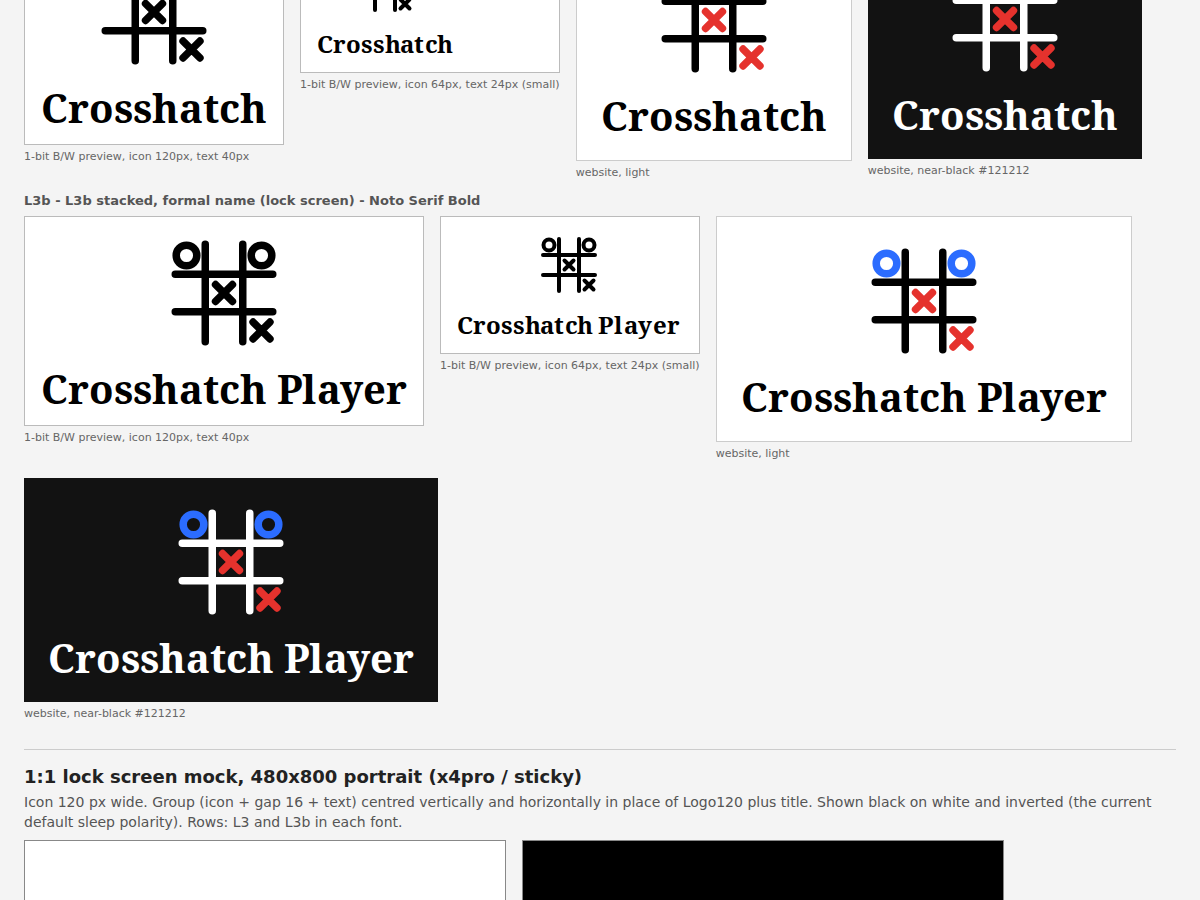
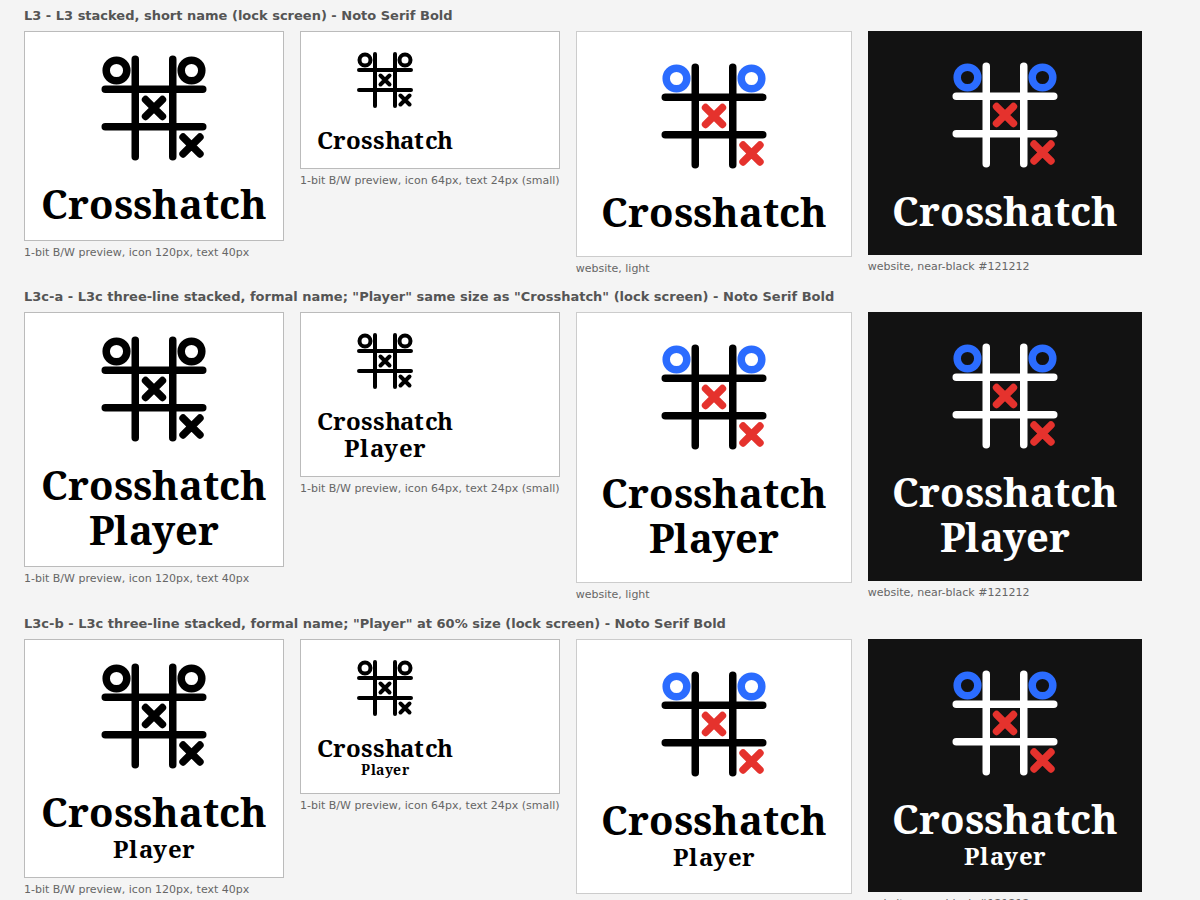
docs: replace one-line stacked lockup with three-line variant
Claude-Session: https://claude.ai/code/session_0126A7paQJWWrjuxfQ387AEm

diff --git a/_bmad-output/planning-artifacts/ux-designs/ux-crosshatch-player-2026-10-03/.working/wordmark-variants-1.html b/_bmad-output/planning-artifacts/ux-designs/ux-crosshatch-player-2026-10-03/.working/wordmark-variants-1.html
@@ -1,5 +1,5 @@
[4 lines of base64/hex data omitted]
 
 body{font:14px/1.4 system-ui,sans-serif;margin:0;padding:24px;width:1152px;background:#f4f4f4;color:#222}
 h1{font-size:22px;margin:0 0 4px}h2{font-size:18px;margin:28px 0 4px;border-top:1px solid #ccc;padding-top:14px}h3{font-size:13px;margin:12px 0 6px;color:#555}
@@ -15,4 +15,4 @@ h1{font-size:22px;margin:0 0 4px}h2{font-size:18px;margin:28px 0 4px;border-top:
 .mock .c{position:absolute;left:0;right:0;display:flex;justify-content:center}
 .mock.inv{background:#000}
 .spec{font:12px/1.5 ui-monospace,monospace;background:#fff;border:1px solid #ccc;padding:8px 12px;margin:8px 0}
-</style></head><body><svg width="0" height="0" style="position:absolute"><defs><symbol id="A2" viewBox="0 0 256 256"><g fill="none" stroke-width="16" stroke-linecap="round" stroke-linejoin="round"><g class="g" style="stroke:var(--cg)"><path d="M88 24V232M168 24V232M24 88H232M24 168H232"/></g><circle class="o" style="stroke:var(--co)" cx="48" cy="48" r="22"/><path class="x" style="stroke:var(--cx)" d="M110 110L146 146M146 110L110 146"/><path class="x" style="stroke:var(--cx)" d="M190 190L226 226M226 190L190 226"/><circle class="o" style="stroke:var(--co)" cx="208" cy="48" r="22"/></g></symbol></defs></svg><h1>Wordmark lockups on mark A2</h1><p class="note">3 lockups (+L3b) x 2 firmware typefaces. Text capitalised exactly as given. Mark A2 unchanged. Fonts: NotoSans-Bold.ttf and NotoSerif-Bold.ttf from lib/EpdFont/builtinFonts/source, subset and embedded.</p><div class="spec">Screens: x4pro and sticky are both 800x480 panels (FreeInkDisplay DISPLAY_WIDTH 800 x DISPLAY_HEIGHT 480; sticky: 3.97" 800x480 SSD1677 per platformio.ini). SleepActivity sets Portrait, so the logical canvas is 480 x 800. Current boot/sleep layout: Logo120 at ((w-120)/2, (h-120)/2); title text at h/2+70 (UI_10 bold), "Sleeping" at h/2+95 (small). Default sleep screen is inverted to dark unless Light is chosen.</div><h2>Noto Sans Bold</h2><h3>L1 - L1 horizontal, formal name (website) - Noto Sans Bold</h3><div class="row"><div class="cell"><div class="bit" id="r-L1-sans-dev"><div class="lk h" style="gap:13px;color:#000;font-family:'NS';font-size:32px"><svg class="mk" width="48" height="48" viewBox="0 0 256 256" style="--cg:#000;--cx:#000;--co:#000"><use href="#A2"/></svg><span class="t">Crosshatch Player</span></div></div><div class="cap">1-bit B/W preview, icon 48px, text 32px</div></div><div class="cell"><div class="bit" id="r-L1-sans-small"><div class="lk h" style="gap:9px;color:#000;font-family:'NS';font-size:22px"><svg class="mk" width="32" height="32" viewBox="0 0 256 256" style="--cg:#000;--cx:#000;--co:#000"><use href="#A2"/></svg><span class="t">Crosshatch Player</span></div></div><div class="cap">1-bit B/W preview, icon 32px, text 22px (small)</div></div><div class="cell"><div class="tile light"><div class="lk h" style="gap:20px;color:#000;font-family:'NS';font-size:48px"><svg class="mk" width="72" height="72" viewBox="0 0 256 256" style="--cg:#000;--cx:#E5322D;--co:#2B6CFF"><use href="#A2"/></svg><span class="t">Crosshatch Player</span></div></div><div class="cap">website, light</div></div><div class="cell"><div class="tile dark"><div class="lk h" style="gap:20px;color:#fff;font-family:'NS';font-size:48px"><svg class="mk" width="72" height="72" viewBox="0 0 256 256" style="--cg:#fff;--cx:#E5322D;--co:#2B6CFF"><use href="#A2"/></svg><span class="t">Crosshatch Player</span></div></div><div class="cap">website, near-black #121212</div></div></div><h3>L2 - L2 horizontal, short name - Noto Sans Bold</h3><div class="row"><div class="cell"><div class="bit" id="r-L2-sans-dev"><div class="lk h" style="gap:13px;color:#000;font-family:'NS';font-size:32px"><svg class="mk" width="48" height="48" viewBox="0 0 256 256" style="--cg:#000;--cx:#000;--co:#000"><use href="#A2"/></svg><span class="t">Crosshatch</span></div></div><div class="cap">1-bit B/W preview, icon 48px, text 32px</div></div><div class="cell"><div class="bit" id="r-L2-sans-small"><div class="lk h" style="gap:9px;color:#000;font-family:'NS';font-size:22px"><svg class="mk" width="32" height="32" viewBox="0 0 256 256" style="--cg:#000;--cx:#000;--co:#000"><use href="#A2"/></svg><span class="t">Crosshatch</span></div></div><div class="cap">1-bit B/W preview, icon 32px, text 22px (small)</div></div><div class="cell"><div class="tile light"><div class="lk h" style="gap:20px;color:#000;font-family:'NS';font-size:48px"><svg class="mk" width="72" height="72" viewBox="0 0 256 256" style="--cg:#000;--cx:#E5322D;--co:#2B6CFF"><use href="#A2"/></svg><span class="t">Crosshatch</span></div></div><div class="cap">website, light</div></div><div class="cell"><div class="tile dark"><div class="lk h" style="gap:20px;color:#fff;font-family:'NS';font-size:48px"><svg class="mk" width="72" height="72" viewBox="0 0 256 256" style="--cg:#fff;--cx:#E5322D;--co:#2B6CFF"><use href="#A2"/></svg><span class="t">Crosshatch</span></div></div><div class="cap">website, near-black #121212</div></div></div><h3>L3 - L3 stacked, short name (lock screen) - Noto Sans Bold</h3><div class="row"><div class="cell"><div class="bit" id="r-L3-sans-dev"><div class="lk v" style="gap:16px;color:#000;font-family:'NS';font-size:40px"><svg class="mk" width="120" height="120" viewBox="0 0 256 256" style="--cg:#000;--cx:#000;--co:#000"><use href="#A2"/></svg><span class="t">Crosshatch</span></div></div><div class="cap">1-bit B/W preview, icon 120px, text 40px</div></div><div class="cell"><div class="bit" id="r-L3-sans-small"><div class="lk v" style="gap:16px;color:#000;font-family:'NS';font-size:24px"><svg class="mk" width="64" height="64" viewBox="0 0 256 256" style="--cg:#000;--cx:#000;--co:#000"><use href="#A2"/></svg><span class="t">Crosshatch</span></div></div><div class="cap">1-bit B/W preview, icon 64px, text 24px (small)</div></div><div class="cell"><div class="tile light"><div class="lk v" style="gap:16px;color:#000;font-family:'NS';font-size:40px"><svg class="mk" width="120" height="120" viewBox="0 0 256 256" style="--cg:#000;--cx:#E5322D;--co:#2B6CFF"><use href="#A2"/></svg><span class="t">Crosshatch</span></div></div><div class="cap">website, light</div></div><div class="cell"><div class="tile dark"><div class="lk v" style="gap:16px;color:#fff;font-family:'NS';font-size:40px"><svg class="mk" width="120" height="120" viewBox="0 0 256 256" style="--cg:#fff;--cx:#E5322D;--co:#2B6CFF"><use href="#A2"/></svg><span class="t">Crosshatch</span></div></div><div class="cap">website, near-black #121212</div></div></div><h3>L3b - L3b stacked, formal name (lock screen) - Noto Sans Bold</h3><div class="row"><div class="cell"><div class="bit" id="r-L3b-sans-dev"><div class="lk v" style="gap:16px;color:#000;font-family:'NS';font-size:40px"><svg class="mk" width="120" height="120" viewBox="0 0 256 256" style="--cg:#000;--cx:#000;--co:#000"><use href="#A2"/></svg><span class="t">Crosshatch Player</span></div></div><div class="cap">1-bit B/W preview, icon 120px, text 40px</div></div><div class="cell"><div class="bit" id="r-L3b-sans-small"><div class="lk v" style="gap:16px;color:#000;font-family:'NS';font-size:24px"><svg class="mk" width="64" height="64" viewBox="0 0 256 256" style="--cg:#000;--cx:#000;--co:#000"><use href="#A2"/></svg><span class="t">Crosshatch Player</span></div></div><div class="cap">1-bit B/W preview, icon 64px, text 24px (small)</div></div><div class="cell"><div class="tile light"><div class="lk v" style="gap:16px;color:#000;font-family:'NS';font-size:40px"><svg class="mk" width="120" height="120" viewBox="0 0 256 256" style="--cg:#000;--cx:#E5322D;--co:#2B6CFF"><use href="#A2"/></svg><span class="t">Crosshatch Player</span></div></div><div class="cap">website, light</div></div><div class="cell"><div class="tile dark"><div class="lk v" style="gap:16px;color:#fff;font-family:'NS';font-size:40px"><svg class="mk" width="120" height="120" viewBox="0 0 256 256" style="--cg:#fff;--cx:#E5322D;--co:#2B6CFF"><use href="#A2"/></svg><span class="t">Crosshatch Player</span></div></div><div class="cap">website, near-black #121212</div></div></div><h2>Noto Serif Bold</h2><h3>L1 - L1 horizontal, formal name (website) - Noto Serif Bold</h3><div class="row"><div class="cell"><div class="bit" id="r-L1-serif-dev"><div class="lk h" style="gap:13px;color:#000;font-family:'NSf';font-size:32px"><svg class="mk" width="48" height="48" viewBox="0 0 256 256" style="--cg:#000;--cx:#000;--co:#000"><use href="#A2"/></svg><span class="t">Crosshatch Player</span></div></div><div class="cap">1-bit B/W preview, icon 48px, text 32px</div></div><div class="cell"><div class="bit" id="r-L1-serif-small"><div class="lk h" style="gap:9px;color:#000;font-family:'NSf';font-size:22px"><svg class="mk" width="32" height="32" viewBox="0 0 256 256" style="--cg:#000;--cx:#000;--co:#000"><use href="#A2"/></svg><span class="t">Crosshatch Player</span></div></div><div class="cap">1-bit B/W preview, icon 32px, text 22px (small)</div></div><div class="cell"><div class="tile light"><div class="lk h" style="gap:20px;color:#000;font-family:'NSf';font-size:48px"><svg class="mk" width="72" height="72" viewBox="0 0 256 256" style="--cg:#000;--cx:#E5322D;--co:#2B6CFF"><use href="#A2"/></svg><span class="t">Crosshatch Player</span></div></div><div class="cap">website, light</div></div><div class="cell"><div class="tile dark"><div class="lk h" style="gap:20px;color:#fff;font-family:'NSf';font-size:48px"><svg class="mk" width="72" height="72" viewBox="0 0 256 256" style="--cg:#fff;--cx:#E5322D;--co:#2B6CFF"><use href="#A2"/></svg><span class="t">Crosshatch Player</span></div></div><div class="cap">website, near-black #121212</div></div></div><h3>L2 - L2 horizontal, short name - Noto Serif Bold</h3><div class="row"><div class="cell"><div class="bit" id="r-L2-serif-dev"><div class="lk h" style="gap:13px;color:#000;font-family:'NSf';font-size:32px"><svg class="mk" width="48" height="48" viewBox="0 0 256 256" style="--cg:#000;--cx:#000;--co:#000"><use href="#A2"/></svg><span class="t">Crosshatch</span></div></div><div class="cap">1-bit B/W preview, icon 48px, text 32px</div></div><div class="cell"><div class="bit" id="r-L2-serif-small"><div class="lk h" style="gap:9px;color:#000;font-family:'NSf';font-size:22px"><svg class="mk" width="32" height="32" viewBox="0 0 256 256" style="--cg:#000;--cx:#000;--co:#000"><use href="#A2"/></svg><span class="t">Crosshatch</span></div></div><div class="cap">1-bit B/W preview, icon 32px, text 22px (small)</div></div><div class="cell"><div class="tile light"><div class="lk h" style="gap:20px;color:#000;font-family:'NSf';font-size:48px"><svg class="mk" width="72" height="72" viewBox="0 0 256 256" style="--cg:#000;--cx:#E5322D;--co:#2B6CFF"><use href="#A2"/></svg><span class="t">Crosshatch</span></div></div><div class="cap">website, light</div></div><div class="cell"><div class="tile dark"><div class="lk h" style="gap:20px;color:#fff;font-family:'NSf';font-size:48px"><svg class="mk" width="72" height="72" viewBox="0 0 256 256" style="--cg:#fff;--cx:#E5322D;--co:#2B6CFF"><use href="#A2"/></svg><span class="t">Crosshatch</span></div></div><div class="cap">website, near-black #121212</div></div></div><h3>L3 - L3 stacked, short name (lock screen) - Noto Serif Bold</h3><div class="row"><div class="cell"><div class="bit" id="r-L3-serif-dev"><div class="lk v" style="gap:16px;color:#000;font-family:'NSf';font-size:40px"><svg class="mk" width="120" height="120" viewBox="0 0 256 256" style="--cg:#000;--cx:#000;--co:#000"><use href="#A2"/></svg><span class="t">Crosshatch</span></div></div><div class="cap">1-bit B/W preview, icon 120px, text 40px</div></div><div class="cell"><div class="bit" id="r-L3-serif-small"><div class="lk v" style="gap:16px;color:#000;font-family:'NSf';font-size:24px"><svg class="mk" width="64" height="64" viewBox="0 0 256 256" style="--cg:#000;--cx:#000;--co:#000"><use href="#A2"/></svg><span class="t">Crosshatch</span></div></div><div class="cap">1-bit B/W preview, icon 64px, text 24px (small)</div></div><div class="cell"><div class="tile light"><div class="lk v" style="gap:16px;color:#000;font-family:'NSf';font-size:40px"><svg class="mk" width="120" height="120" viewBox="0 0 256 256" style="--cg:#000;--cx:#E5322D;--co:#2B6CFF"><use href="#A2"/></svg><span class="t">Crosshatch</span></div></div><div class="cap">website, light</div></div><div class="cell"><div class="tile dark"><div class="lk v" style="gap:16px;color:#fff;font-family:'NSf';font-size:40px"><svg class="mk" width="120" height="120" viewBox="0 0 256 256" style="--cg:#fff;--cx:#E5322D;--co:#2B6CFF"><use href="#A2"/></svg><span class="t">Crosshatch</span></div></div><div class="cap">website, near-black #121212</div></div></div><h3>L3b - L3b stacked, formal name (lock screen) - Noto Serif Bold</h3><div class="row"><div class="cell"><div class="bit" id="r-L3b-serif-dev"><div class="lk v" style="gap:16px;color:#000;font-family:'NSf';font-size:40px"><svg class="mk" width="120" height="120" viewBox="0 0 256 256" style="--cg:#000;--cx:#000;--co:#000"><use href="#A2"/></svg><span class="t">Crosshatch Player</span></div></div><div class="cap">1-bit B/W preview, icon 120px, text 40px</div></div><div class="cell"><div class="bit" id="r-L3b-serif-small"><div class="lk v" style="gap:16px;color:#000;font-family:'NSf';font-size:24px"><svg class="mk" width="64" height="64" viewBox="0 0 256 256" style="--cg:#000;--cx:#000;--co:#000"><use href="#A2"/></svg><span class="t">Crosshatch Player</span></div></div><div class="cap">1-bit B/W preview, icon 64px, text 24px (small)</div></div><div class="cell"><div class="tile light"><div class="lk v" style="gap:16px;color:#000;font-family:'NSf';font-size:40px"><svg class="mk" width="120" height="120" viewBox="0 0 256 256" style="--cg:#000;--cx:#E5322D;--co:#2B6CFF"><use href="#A2"/></svg><span class="t">Crosshatch Player</span></div></div><div class="cap">website, light</div></div><div class="cell"><div class="tile dark"><div class="lk v" style="gap:16px;color:#fff;font-family:'NSf';font-size:40px"><svg class="mk" width="120" height="120" viewBox="0 0 256 256" style="--cg:#fff;--cx:#E5322D;--co:#2B6CFF"><use href="#A2"/></svg><span class="t">Crosshatch Player</span></div></div><div class="cap">website, near-black #121212</div></div></div><h2>1:1 lock screen mock, 480x800 portrait (x4pro / sticky)</h2><p class="note">Icon 120 px wide. Group (icon + gap 16 + text) centred vertically and horizontally in place of Logo120 plus title. Shown black on white and inverted (the current default sleep polarity). Rows: L3 and L3b in each font.</p><div class="row"><div class="cell"><div class="mock" id="mock-L3-sans-pos" style="--fg:#000"><div class="c" style="top:0;bottom:0;align-items:center"><div class="lk v" style="gap:16px;color:#000;font-family:'NS';font-size:40px"><svg class="mk" width="120" height="120" viewBox="0 0 256 256" style="--cg:#000;--cx:#000;--co:#000"><use href="#A2"/></svg><span class="t">Crosshatch</span></div></div></div><div class="cap">L3 Noto Sans Bold</div></div><div class="cell"><div class="mock inv" id="mock-L3-sans-inv" style="--fg:#fff"><div class="c" style="top:0;bottom:0;align-items:center"><div class="lk v" style="gap:16px;color:#fff;font-family:'NS';font-size:40px"><svg class="mk" width="120" height="120" viewBox="0 0 256 256" style="--cg:#fff;--cx:#fff;--co:#fff"><use href="#A2"/></svg><span class="t">Crosshatch</span></div></div></div><div class="cap">L3 Noto Sans Bold inverted</div></div><div class="cell"><div class="mock" id="mock-L3-serif-pos" style="--fg:#000"><div class="c" style="top:0;bottom:0;align-items:center"><div class="lk v" style="gap:16px;color:#000;font-family:'NSf';font-size:40px"><svg class="mk" width="120" height="120" viewBox="0 0 256 256" style="--cg:#000;--cx:#000;--co:#000"><use href="#A2"/></svg><span class="t">Crosshatch</span></div></div></div><div class="cap">L3 Noto Serif Bold</div></div><div class="cell"><div class="mock inv" id="mock-L3-serif-inv" style="--fg:#fff"><div class="c" style="top:0;bottom:0;align-items:center"><div class="lk v" style="gap:16px;color:#fff;font-family:'NSf';font-size:40px"><svg class="mk" width="120" height="120" viewBox="0 0 256 256" style="--cg:#fff;--cx:#fff;--co:#fff"><use href="#A2"/></svg><span class="t">Crosshatch</span></div></div></div><div class="cap">L3 Noto Serif Bold inverted</div></div><div class="cell"><div class="mock" id="mock-L3b-sans-pos" style="--fg:#000"><div class="c" style="top:0;bottom:0;align-items:center"><div class="lk v" style="gap:16px;color:#000;font-family:'NS';font-size:40px"><svg class="mk" width="120" height="120" viewBox="0 0 256 256" style="--cg:#000;--cx:#000;--co:#000"><use href="#A2"/></svg><span class="t">Crosshatch Player</span></div></div></div><div class="cap">L3b Noto Sans Bold</div></div><div class="cell"><div class="mock inv" id="mock-L3b-sans-inv" style="--fg:#fff"><div class="c" style="top:0;bottom:0;align-items:center"><div class="lk v" style="gap:16px;color:#fff;font-family:'NS';font-size:40px"><svg class="mk" width="120" height="120" viewBox="0 0 256 256" style="--cg:#fff;--cx:#fff;--co:#fff"><use href="#A2"/></svg><span class="t">Crosshatch Player</span></div></div></div><div class="cap">L3b Noto Sans Bold inverted</div></div><div class="cell"><div class="mock" id="mock-L3b-serif-pos" style="--fg:#000"><div class="c" style="top:0;bottom:0;align-items:center"><div class="lk v" style="gap:16px;color:#000;font-family:'NSf';font-size:40px"><svg class="mk" width="120" height="120" viewBox="0 0 256 256" style="--cg:#000;--cx:#000;--co:#000"><use href="#A2"/></svg><span class="t">Crosshatch Player</span></div></div></div><div class="cap">L3b Noto Serif Bold</div></div><div class="cell"><div class="mock inv" id="mock-L3b-serif-inv" style="--fg:#fff"><div class="c" style="top:0;bottom:0;align-items:center"><div class="lk v" style="gap:16px;color:#fff;font-family:'NSf';font-size:40px"><svg class="mk" width="120" height="120" viewBox="0 0 256 256" style="--cg:#fff;--cx:#fff;--co:#fff"><use href="#A2"/></svg><span class="t">Crosshatch Player</span></div></div></div><div class="cap">L3b Noto Serif Bold inverted</div></div></div></body></html>
+</style></head><body><svg width="0" height="0" style="position:absolute"><defs><symbol id="A2" viewBox="0 0 256 256"><g fill="none" stroke-width="16" stroke-linecap="round" stroke-linejoin="round"><g class="g" style="stroke:var(--cg)"><path d="M88 24V232M168 24V232M24 88H232M24 168H232"/></g><circle class="o" style="stroke:var(--co)" cx="48" cy="48" r="22"/><path class="x" style="stroke:var(--cx)" d="M110 110L146 146M146 110L110 146"/><path class="x" style="stroke:var(--cx)" d="M190 190L226 226M226 190L190 226"/><circle class="o" style="stroke:var(--co)" cx="208" cy="48" r="22"/></g></symbol></defs></svg><h1>Wordmark lockups on mark A2</h1><p class="note">3 lockups (L3 stacked has a three-line variant L3c in two sizings) x 2 firmware typefaces. Text capitalised exactly as given. Mark A2 unchanged. Fonts: NotoSans-Bold.ttf and NotoSerif-Bold.ttf from lib/EpdFont/builtinFonts/source, subset and embedded.</p><div class="spec">Screens: x4pro and sticky are both 800x480 panels (FreeInkDisplay DISPLAY_WIDTH 800 x DISPLAY_HEIGHT 480; sticky: 3.97" 800x480 SSD1677 per platformio.ini). SleepActivity sets Portrait, so the logical canvas is 480 x 800. Current boot/sleep layout: Logo120 at ((w-120)/2, (h-120)/2); title text at h/2+70 (UI_10 bold), "Sleeping" at h/2+95 (small). Default sleep screen is inverted to dark unless Light is chosen.</div><h2>Noto Sans Bold</h2><h3>L1 - L1 horizontal, formal name (website) - Noto Sans Bold</h3><div class="row"><div class="cell"><div class="bit" id="r-L1-sans-dev"><div class="lk h" style="gap:13px;color:#000;font-family:'NS';font-size:32px"><svg class="mk" width="48" height="48" viewBox="0 0 256 256" style="--cg:#000;--cx:#000;--co:#000"><use href="#A2"/></svg><span class="t">Crosshatch Player</span></div></div><div class="cap">1-bit B/W preview, icon 48px, text 32px</div></div><div class="cell"><div class="bit" id="r-L1-sans-small"><div class="lk h" style="gap:9px;color:#000;font-family:'NS';font-size:22px"><svg class="mk" width="32" height="32" viewBox="0 0 256 256" style="--cg:#000;--cx:#000;--co:#000"><use href="#A2"/></svg><span class="t">Crosshatch Player</span></div></div><div class="cap">1-bit B/W preview, icon 32px, text 22px (small)</div></div><div class="cell"><div class="tile light"><div class="lk h" style="gap:20px;color:#000;font-family:'NS';font-size:48px"><svg class="mk" width="72" height="72" viewBox="0 0 256 256" style="--cg:#000;--cx:#E5322D;--co:#2B6CFF"><use href="#A2"/></svg><span class="t">Crosshatch Player</span></div></div><div class="cap">website, light</div></div><div class="cell"><div class="tile dark"><div class="lk h" style="gap:20px;color:#fff;font-family:'NS';font-size:48px"><svg class="mk" width="72" height="72" viewBox="0 0 256 256" style="--cg:#fff;--cx:#E5322D;--co:#2B6CFF"><use href="#A2"/></svg><span class="t">Crosshatch Player</span></div></div><div class="cap">website, near-black #121212</div></div></div><h3>L2 - L2 horizontal, short name - Noto Sans Bold</h3><div class="row"><div class="cell"><div class="bit" id="r-L2-sans-dev"><div class="lk h" style="gap:13px;color:#000;font-family:'NS';font-size:32px"><svg class="mk" width="48" height="48" viewBox="0 0 256 256" style="--cg:#000;--cx:#000;--co:#000"><use href="#A2"/></svg><span class="t">Crosshatch</span></div></div><div class="cap">1-bit B/W preview, icon 48px, text 32px</div></div><div class="cell"><div class="bit" id="r-L2-sans-small"><div class="lk h" style="gap:9px;color:#000;font-family:'NS';font-size:22px"><svg class="mk" width="32" height="32" viewBox="0 0 256 256" style="--cg:#000;--cx:#000;--co:#000"><use href="#A2"/></svg><span class="t">Crosshatch</span></div></div><div class="cap">1-bit B/W preview, icon 32px, text 22px (small)</div></div><div class="cell"><div class="tile light"><div class="lk h" style="gap:20px;color:#000;font-family:'NS';font-size:48px"><svg class="mk" width="72" height="72" viewBox="0 0 256 256" style="--cg:#000;--cx:#E5322D;--co:#2B6CFF"><use href="#A2"/></svg><span class="t">Crosshatch</span></div></div><div class="cap">website, light</div></div><div class="cell"><div class="tile dark"><div class="lk h" style="gap:20px;color:#fff;font-family:'NS';font-size:48px"><svg class="mk" width="72" height="72" viewBox="0 0 256 256" style="--cg:#fff;--cx:#E5322D;--co:#2B6CFF"><use href="#A2"/></svg><span class="t">Crosshatch</span></div></div><div class="cap">website, near-black #121212</div></div></div><h3>L3 - L3 stacked, short name (lock screen) - Noto Sans Bold</h3><div class="row"><div class="cell"><div class="bit" id="r-L3-sans-dev"><div class="lk v" style="gap:16px;color:#000;font-family:'NS';font-size:40px"><svg class="mk" width="120" height="120" viewBox="0 0 256 256" style="--cg:#000;--cx:#000;--co:#000"><use href="#A2"/></svg><span class="t">Crosshatch</span></div></div><div class="cap">1-bit B/W preview, icon 120px, text 40px</div></div><div class="cell"><div class="bit" id="r-L3-sans-small"><div class="lk v" style="gap:16px;color:#000;font-family:'NS';font-size:24px"><svg class="mk" width="64" height="64" viewBox="0 0 256 256" style="--cg:#000;--cx:#000;--co:#000"><use href="#A2"/></svg><span class="t">Crosshatch</span></div></div><div class="cap">1-bit B/W preview, icon 64px, text 24px (small)</div></div><div class="cell"><div class="tile light"><div class="lk v" style="gap:16px;color:#000;font-family:'NS';font-size:40px"><svg class="mk" width="120" height="120" viewBox="0 0 256 256" style="--cg:#000;--cx:#E5322D;--co:#2B6CFF"><use href="#A2"/></svg><span class="t">Crosshatch</span></div></div><div class="cap">website, light</div></div><div class="cell"><div class="tile dark"><div class="lk v" style="gap:16px;color:#fff;font-family:'NS';font-size:40px"><svg class="mk" width="120" height="120" viewBox="0 0 256 256" style="--cg:#fff;--cx:#E5322D;--co:#2B6CFF"><use href="#A2"/></svg><span class="t">Crosshatch</span></div></div><div class="cap">website, near-black #121212</div></div></div><h3>L3c-a - L3c three-line stacked, formal name; "Player" same size as "Crosshatch" (lock screen) - Noto Sans Bold</h3><div class="row"><div class="cell"><div class="bit" id="r-L3c-a-sans-dev"><div class="lk v" style="gap:16px;color:#000;font-family:'NS';font-size:40px"><svg class="mk" width="120" height="120" viewBox="0 0 256 256" style="--cg:#000;--cx:#000;--co:#000"><use href="#A2"/></svg><span class="tt" style="display:flex;flex-direction:column;align-items:center"><span class="t">Crosshatch</span><span class="t" style="font-size:40px;margin-top:5px">Player</span></span></div></div><div class="cap">1-bit B/W preview, icon 120px, text 40px</div></div><div class="cell"><div class="bit" id="r-L3c-a-sans-small"><div class="lk v" style="gap:16px;color:#000;font-family:'NS';font-size:24px"><svg class="mk" width="64" height="64" viewBox="0 0 256 256" style="--cg:#000;--cx:#000;--co:#000"><use href="#A2"/></svg><span class="tt" style="display:flex;flex-direction:column;align-items:center"><span class="t">Crosshatch</span><span class="t" style="font-size:24px;margin-top:3px">Player</span></span></div></div><div class="cap">1-bit B/W preview, icon 64px, text 24px (small)</div></div><div class="cell"><div class="tile light"><div class="lk v" style="gap:16px;color:#000;font-family:'NS';font-size:40px"><svg class="mk" width="120" height="120" viewBox="0 0 256 256" style="--cg:#000;--cx:#E5322D;--co:#2B6CFF"><use href="#A2"/></svg><span class="tt" style="display:flex;flex-direction:column;align-items:center"><span class="t">Crosshatch</span><span class="t" style="font-size:40px;margin-top:5px">Player</span></span></div></div><div class="cap">website, light</div></div><div class="cell"><div class="tile dark"><div class="lk v" style="gap:16px;color:#fff;font-family:'NS';font-size:40px"><svg class="mk" width="120" height="120" viewBox="0 0 256 256" style="--cg:#fff;--cx:#E5322D;--co:#2B6CFF"><use href="#A2"/></svg><span class="tt" style="display:flex;flex-direction:column;align-items:center"><span class="t">Crosshatch</span><span class="t" style="font-size:40px;margin-top:5px">Player</span></span></div></div><div class="cap">website, near-black #121212</div></div></div><h3>L3c-b - L3c three-line stacked, formal name; "Player" at 60% size (lock screen) - Noto Sans Bold</h3><div class="row"><div class="cell"><div class="bit" id="r-L3c-b-sans-dev"><div class="lk v" style="gap:16px;color:#000;font-family:'NS';font-size:40px"><svg class="mk" width="120" height="120" viewBox="0 0 256 256" style="--cg:#000;--cx:#000;--co:#000"><use href="#A2"/></svg><span class="tt" style="display:flex;flex-direction:column;align-items:center"><span class="t">Crosshatch</span><span class="t" style="font-size:24px;margin-top:5px">Player</span></span></div></div><div class="cap">1-bit B/W preview, icon 120px, text 40px</div></div><div class="cell"><div class="bit" id="r-L3c-b-sans-small"><div class="lk v" style="gap:16px;color:#000;font-family:'NS';font-size:24px"><svg class="mk" width="64" height="64" viewBox="0 0 256 256" style="--cg:#000;--cx:#000;--co:#000"><use href="#A2"/></svg><span class="tt" style="display:flex;flex-direction:column;align-items:center"><span class="t">Crosshatch</span><span class="t" style="font-size:14px;margin-top:3px">Player</span></span></div></div><div class="cap">1-bit B/W preview, icon 64px, text 24px (small)</div></div><div class="cell"><div class="tile light"><div class="lk v" style="gap:16px;color:#000;font-family:'NS';font-size:40px"><svg class="mk" width="120" height="120" viewBox="0 0 256 256" style="--cg:#000;--cx:#E5322D;--co:#2B6CFF"><use href="#A2"/></svg><span class="tt" style="display:flex;flex-direction:column;align-items:center"><span class="t">Crosshatch</span><span class="t" style="font-size:24px;margin-top:5px">Player</span></span></div></div><div class="cap">website, light</div></div><div class="cell"><div class="tile dark"><div class="lk v" style="gap:16px;color:#fff;font-family:'NS';font-size:40px"><svg class="mk" width="120" height="120" viewBox="0 0 256 256" style="--cg:#fff;--cx:#E5322D;--co:#2B6CFF"><use href="#A2"/></svg><span class="tt" style="display:flex;flex-direction:column;align-items:center"><span class="t">Crosshatch</span><span class="t" style="font-size:24px;margin-top:5px">Player</span></span></div></div><div class="cap">website, near-black #121212</div></div></div><h2>Noto Serif Bold</h2><h3>L1 - L1 horizontal, formal name (website) - Noto Serif Bold</h3><div class="row"><div class="cell"><div class="bit" id="r-L1-serif-dev"><div class="lk h" style="gap:13px;color:#000;font-family:'NSf';font-size:32px"><svg class="mk" width="48" height="48" viewBox="0 0 256 256" style="--cg:#000;--cx:#000;--co:#000"><use href="#A2"/></svg><span class="t">Crosshatch Player</span></div></div><div class="cap">1-bit B/W preview, icon 48px, text 32px</div></div><div class="cell"><div class="bit" id="r-L1-serif-small"><div class="lk h" style="gap:9px;color:#000;font-family:'NSf';font-size:22px"><svg class="mk" width="32" height="32" viewBox="0 0 256 256" style="--cg:#000;--cx:#000;--co:#000"><use href="#A2"/></svg><span class="t">Crosshatch Player</span></div></div><div class="cap">1-bit B/W preview, icon 32px, text 22px (small)</div></div><div class="cell"><div class="tile light"><div class="lk h" style="gap:20px;color:#000;font-family:'NSf';font-size:48px"><svg class="mk" width="72" height="72" viewBox="0 0 256 256" style="--cg:#000;--cx:#E5322D;--co:#2B6CFF"><use href="#A2"/></svg><span class="t">Crosshatch Player</span></div></div><div class="cap">website, light</div></div><div class="cell"><div class="tile dark"><div class="lk h" style="gap:20px;color:#fff;font-family:'NSf';font-size:48px"><svg class="mk" width="72" height="72" viewBox="0 0 256 256" style="--cg:#fff;--cx:#E5322D;--co:#2B6CFF"><use href="#A2"/></svg><span class="t">Crosshatch Player</span></div></div><div class="cap">website, near-black #121212</div></div></div><h3>L2 - L2 horizontal, short name - Noto Serif Bold</h3><div class="row"><div class="cell"><div class="bit" id="r-L2-serif-dev"><div class="lk h" style="gap:13px;color:#000;font-family:'NSf';font-size:32px"><svg class="mk" width="48" height="48" viewBox="0 0 256 256" style="--cg:#000;--cx:#000;--co:#000"><use href="#A2"/></svg><span class="t">Crosshatch</span></div></div><div class="cap">1-bit B/W preview, icon 48px, text 32px</div></div><div class="cell"><div class="bit" id="r-L2-serif-small"><div class="lk h" style="gap:9px;color:#000;font-family:'NSf';font-size:22px"><svg class="mk" width="32" height="32" viewBox="0 0 256 256" style="--cg:#000;--cx:#000;--co:#000"><use href="#A2"/></svg><span class="t">Crosshatch</span></div></div><div class="cap">1-bit B/W preview, icon 32px, text 22px (small)</div></div><div class="cell"><div class="tile light"><div class="lk h" style="gap:20px;color:#000;font-family:'NSf';font-size:48px"><svg class="mk" width="72" height="72" viewBox="0 0 256 256" style="--cg:#000;--cx:#E5322D;--co:#2B6CFF"><use href="#A2"/></svg><span class="t">Crosshatch</span></div></div><div class="cap">website, light</div></div><div class="cell"><div class="tile dark"><div class="lk h" style="gap:20px;color:#fff;font-family:'NSf';font-size:48px"><svg class="mk" width="72" height="72" viewBox="0 0 256 256" style="--cg:#fff;--cx:#E5322D;--co:#2B6CFF"><use href="#A2"/></svg><span class="t">Crosshatch</span></div></div><div class="cap">website, near-black #121212</div></div></div><h3>L3 - L3 stacked, short name (lock screen) - Noto Serif Bold</h3><div class="row"><div class="cell"><div class="bit" id="r-L3-serif-dev"><div class="lk v" style="gap:16px;color:#000;font-family:'NSf';font-size:40px"><svg class="mk" width="120" height="120" viewBox="0 0 256 256" style="--cg:#000;--cx:#000;--co:#000"><use href="#A2"/></svg><span class="t">Crosshatch</span></div></div><div class="cap">1-bit B/W preview, icon 120px, text 40px</div></div><div class="cell"><div class="bit" id="r-L3-serif-small"><div class="lk v" style="gap:16px;color:#000;font-family:'NSf';font-size:24px"><svg class="mk" width="64" height="64" viewBox="0 0 256 256" style="--cg:#000;--cx:#000;--co:#000"><use href="#A2"/></svg><span class="t">Crosshatch</span></div></div><div class="cap">1-bit B/W preview, icon 64px, text 24px (small)</div></div><div class="cell"><div class="tile light"><div class="lk v" style="gap:16px;color:#000;font-family:'NSf';font-size:40px"><svg class="mk" width="120" height="120" viewBox="0 0 256 256" style="--cg:#000;--cx:#E5322D;--co:#2B6CFF"><use href="#A2"/></svg><span class="t">Crosshatch</span></div></div><div class="cap">website, light</div></div><div class="cell"><div class="tile dark"><div class="lk v" style="gap:16px;color:#fff;font-family:'NSf';font-size:40px"><svg class="mk" width="120" height="120" viewBox="0 0 256 256" style="--cg:#fff;--cx:#E5322D;--co:#2B6CFF"><use href="#A2"/></svg><span class="t">Crosshatch</span></div></div><div class="cap">website, near-black #121212</div></div></div><h3>L3c-a - L3c three-line stacked, formal name; "Player" same size as "Crosshatch" (lock screen) - Noto Serif Bold</h3><div class="row"><div class="cell"><div class="bit" id="r-L3c-a-serif-dev"><div class="lk v" style="gap:16px;color:#000;font-family:'NSf';font-size:40px"><svg class="mk" width="120" height="120" viewBox="0 0 256 256" style="--cg:#000;--cx:#000;--co:#000"><use href="#A2"/></svg><span class="tt" style="display:flex;flex-direction:column;align-items:center"><span class="t">Crosshatch</span><span class="t" style="font-size:40px;margin-top:5px">Player</span></span></div></div><div class="cap">1-bit B/W preview, icon 120px, text 40px</div></div><div class="cell"><div class="bit" id="r-L3c-a-serif-small"><div class="lk v" style="gap:16px;color:#000;font-family:'NSf';font-size:24px"><svg class="mk" width="64" height="64" viewBox="0 0 256 256" style="--cg:#000;--cx:#000;--co:#000"><use href="#A2"/></svg><span class="tt" style="display:flex;flex-direction:column;align-items:center"><span class="t">Crosshatch</span><span class="t" style="font-size:24px;margin-top:3px">Player</span></span></div></div><div class="cap">1-bit B/W preview, icon 64px, text 24px (small)</div></div><div class="cell"><div class="tile light"><div class="lk v" style="gap:16px;color:#000;font-family:'NSf';font-size:40px"><svg class="mk" width="120" height="120" viewBox="0 0 256 256" style="--cg:#000;--cx:#E5322D;--co:#2B6CFF"><use href="#A2"/></svg><span class="tt" style="display:flex;flex-direction:column;align-items:center"><span class="t">Crosshatch</span><span class="t" style="font-size:40px;margin-top:5px">Player</span></span></div></div><div class="cap">website, light</div></div><div class="cell"><div class="tile dark"><div class="lk v" style="gap:16px;color:#fff;font-family:'NSf';font-size:40px"><svg class="mk" width="120" height="120" viewBox="0 0 256 256" style="--cg:#fff;--cx:#E5322D;--co:#2B6CFF"><use href="#A2"/></svg><span class="tt" style="display:flex;flex-direction:column;align-items:center"><span class="t">Crosshatch</span><span class="t" style="font-size:40px;margin-top:5px">Player</span></span></div></div><div class="cap">website, near-black #121212</div></div></div><h3>L3c-b - L3c three-line stacked, formal name; "Player" at 60% size (lock screen) - Noto Serif Bold</h3><div class="row"><div class="cell"><div class="bit" id="r-L3c-b-serif-dev"><div class="lk v" style="gap:16px;color:#000;font-family:'NSf';font-size:40px"><svg class="mk" width="120" height="120" viewBox="0 0 256 256" style="--cg:#000;--cx:#000;--co:#000"><use href="#A2"/></svg><span class="tt" style="display:flex;flex-direction:column;align-items:center"><span class="t">Crosshatch</span><span class="t" style="font-size:24px;margin-top:5px">Player</span></span></div></div><div class="cap">1-bit B/W preview, icon 120px, text 40px</div></div><div class="cell"><div class="bit" id="r-L3c-b-serif-small"><div class="lk v" style="gap:16px;color:#000;font-family:'NSf';font-size:24px"><svg class="mk" width="64" height="64" viewBox="0 0 256 256" style="--cg:#000;--cx:#000;--co:#000"><use href="#A2"/></svg><span class="tt" style="display:flex;flex-direction:column;align-items:center"><span class="t">Crosshatch</span><span class="t" style="font-size:14px;margin-top:3px">Player</span></span></div></div><div class="cap">1-bit B/W preview, icon 64px, text 24px (small)</div></div><div class="cell"><div class="tile light"><div class="lk v" style="gap:16px;color:#000;font-family:'NSf';font-size:40px"><svg class="mk" width="120" height="120" viewBox="0 0 256 256" style="--cg:#000;--cx:#E5322D;--co:#2B6CFF"><use href="#A2"/></svg><span class="tt" style="display:flex;flex-direction:column;align-items:center"><span class="t">Crosshatch</span><span class="t" style="font-size:24px;margin-top:5px">Player</span></span></div></div><div class="cap">website, light</div></div><div class="cell"><div class="tile dark"><div class="lk v" style="gap:16px;color:#fff;font-family:'NSf';font-size:40px"><svg class="mk" width="120" height="120" viewBox="0 0 256 256" style="--cg:#fff;--cx:#E5322D;--co:#2B6CFF"><use href="#A2"/></svg><span class="tt" style="display:flex;flex-direction:column;align-items:center"><span class="t">Crosshatch</span><span class="t" style="font-size:24px;margin-top:5px">Player</span></span></div></div><div class="cap">website, near-black #121212</div></div></div><h2>1:1 lock screen mock, 480x800 portrait (x4pro / sticky)</h2><p class="note">Icon 120 px wide. Group (icon + gap 16 + text) centred vertically and horizontally in place of Logo120 plus title. Shown black on white and inverted (the current default sleep polarity). L3 and both L3c sizings in each font.</p><div class="row"><div class="cell"><div class="mock" id="mock-L3-sans-pos" style="--fg:#000"><div class="c" style="top:0;bottom:0;align-items:center"><div class="lk v" style="gap:16px;color:#000;font-family:'NS';font-size:40px"><svg class="mk" width="120" height="120" viewBox="0 0 256 256" style="--cg:#000;--cx:#000;--co:#000"><use href="#A2"/></svg><span class="t">Crosshatch</span></div></div></div><div class="cap">L3 Noto Sans Bold</div></div><div class="cell"><div class="mock inv" id="mock-L3-sans-inv" style="--fg:#fff"><div class="c" style="top:0;bottom:0;align-items:center"><div class="lk v" style="gap:16px;color:#fff;font-family:'NS';font-size:40px"><svg class="mk" width="120" height="120" viewBox="0 0 256 256" style="--cg:#fff;--cx:#fff;--co:#fff"><use href="#A2"/></svg><span class="t">Crosshatch</span></div></div></div><div class="cap">L3 Noto Sans Bold inverted</div></div><div class="cell"><div class="mock" id="mock-L3-serif-pos" style="--fg:#000"><div class="c" style="top:0;bottom:0;align-items:center"><div class="lk v" style="gap:16px;color:#000;font-family:'NSf';font-size:40px"><svg class="mk" width="120" height="120" viewBox="0 0 256 256" style="--cg:#000;--cx:#000;--co:#000"><use href="#A2"/></svg><span class="t">Crosshatch</span></div></div></div><div class="cap">L3 Noto Serif Bold</div></div><div class="cell"><div class="mock inv" id="mock-L3-serif-inv" style="--fg:#fff"><div class="c" style="top:0;bottom:0;align-items:center"><div class="lk v" style="gap:16px;color:#fff;font-family:'NSf';font-size:40px"><svg class="mk" width="120" height="120" viewBox="0 0 256 256" style="--cg:#fff;--cx:#fff;--co:#fff"><use href="#A2"/></svg><span class="t">Crosshatch</span></div></div></div><div class="cap">L3 Noto Serif Bold inverted</div></div><div class="cell"><div class="mock" id="mock-L3c-a-sans-pos" style="--fg:#000"><div class="c" style="top:0;bottom:0;align-items:center"><div class="lk v" style="gap:16px;color:#000;font-family:'NS';font-size:40px"><svg class="mk" width="120" height="120" viewBox="0 0 256 256" style="--cg:#000;--cx:#000;--co:#000"><use href="#A2"/></svg><span class="tt" style="display:flex;flex-direction:column;align-items:center"><span class="t">Crosshatch</span><span class="t" style="font-size:40px;margin-top:5px">Player</span></span></div></div></div><div class="cap">L3c-a Noto Sans Bold</div></div><div class="cell"><div class="mock inv" id="mock-L3c-a-sans-inv" style="--fg:#fff"><div class="c" style="top:0;bottom:0;align-items:center"><div class="lk v" style="gap:16px;color:#fff;font-family:'NS';font-size:40px"><svg class="mk" width="120" height="120" viewBox="0 0 256 256" style="--cg:#fff;--cx:#fff;--co:#fff"><use href="#A2"/></svg><span class="tt" style="display:flex;flex-direction:column;align-items:center"><span class="t">Crosshatch</span><span class="t" style="font-size:40px;margin-top:5px">Player</span></span></div></div></div><div class="cap">L3c-a Noto Sans Bold inverted</div></div><div class="cell"><div class="mock" id="mock-L3c-a-serif-pos" style="--fg:#000"><div class="c" style="top:0;bottom:0;align-items:center"><div class="lk v" style="gap:16px;color:#000;font-family:'NSf';font-size:40px"><svg class="mk" width="120" height="120" viewBox="0 0 256 256" style="--cg:#000;--cx:#000;--co:#000"><use href="#A2"/></svg><span class="tt" style="display:flex;flex-direction:column;align-items:center"><span class="t">Crosshatch</span><span class="t" style="font-size:40px;margin-top:5px">Player</span></span></div></div></div><div class="cap">L3c-a Noto Serif Bold</div></div><div class="cell"><div class="mock inv" id="mock-L3c-a-serif-inv" style="--fg:#fff"><div class="c" style="top:0;bottom:0;align-items:center"><div class="lk v" style="gap:16px;color:#fff;font-family:'NSf';font-size:40px"><svg class="mk" width="120" height="120" viewBox="0 0 256 256" style="--cg:#fff;--cx:#fff;--co:#fff"><use href="#A2"/></svg><span class="tt" style="display:flex;flex-direction:column;align-items:center"><span class="t">Crosshatch</span><span class="t" style="font-size:40px;margin-top:5px">Player</span></span></div></div></div><div class="cap">L3c-a Noto Serif Bold inverted</div></div><div class="cell"><div class="mock" id="mock-L3c-b-sans-pos" style="--fg:#000"><div class="c" style="top:0;bottom:0;align-items:center"><div class="lk v" style="gap:16px;color:#000;font-family:'NS';font-size:40px"><svg class="mk" width="120" height="120" viewBox="0 0 256 256" style="--cg:#000;--cx:#000;--co:#000"><use href="#A2"/></svg><span class="tt" style="display:flex;flex-direction:column;align-items:center"><span class="t">Crosshatch</span><span class="t" style="font-size:24px;margin-top:5px">Player</span></span></div></div></div><div class="cap">L3c-b Noto Sans Bold</div></div><div class="cell"><div class="mock inv" id="mock-L3c-b-sans-inv" style="--fg:#fff"><div class="c" style="top:0;bottom:0;align-items:center"><div class="lk v" style="gap:16px;color:#fff;font-family:'NS';font-size:40px"><svg class="mk" width="120" height="120" viewBox="0 0 256 256" style="--cg:#fff;--cx:#fff;--co:#fff"><use href="#A2"/></svg><span class="tt" style="display:flex;flex-direction:column;align-items:center"><span class="t">Crosshatch</span><span class="t" style="font-size:24px;margin-top:5px">Player</span></span></div></div></div><div class="cap">L3c-b Noto Sans Bold inverted</div></div><div class="cell"><div class="mock" id="mock-L3c-b-serif-pos" style="--fg:#000"><div class="c" style="top:0;bottom:0;align-items:center"><div class="lk v" style="gap:16px;color:#000;font-family:'NSf';font-size:40px"><svg class="mk" width="120" height="120" viewBox="0 0 256 256" style="--cg:#000;--cx:#000;--co:#000"><use href="#A2"/></svg><span class="tt" style="display:flex;flex-direction:column;align-items:center"><span class="t">Crosshatch</span><span class="t" style="font-size:24px;margin-top:5px">Player</span></span></div></div></div><div class="cap">L3c-b Noto Serif Bold</div></div><div class="cell"><div class="mock inv" id="mock-L3c-b-serif-inv" style="--fg:#fff"><div class="c" style="top:0;bottom:0;align-items:center"><div class="lk v" style="gap:16px;color:#fff;font-family:'NSf';font-size:40px"><svg class="mk" width="120" height="120" viewBox="0 0 256 256" style="--cg:#fff;--cx:#fff;--co:#fff"><use href="#A2"/></svg><span class="tt" style="display:flex;flex-direction:column;align-items:center"><span class="t">Crosshatch</span><span class="t" style="font-size:24px;margin-top:5px">Player</span></span></div></div></div><div class="cap">L3c-b Noto Serif Bold inverted</div></div></div></body></html>

diff --git a/_bmad-output/planning-artifacts/ux-designs/ux-crosshatch-player-2026-10-03/.memlog.md b/_bmad-output/planning-artifacts/ux-designs/ux-crosshatch-player-2026-10-03/.memlog.md
@@ -1,6 +1,6 @@
 ---
 topic: Crosshatch brand mark: logo, default game icon, power-off screen, website
-updated: 2026-10-03T17:33
+updated: 2026-10-03T17:35
 ---
 
 - (decision) Scope: brand mark for Crosshatch. Roles: (1) logo, (2) default icon for games that supply none, (3) replaces CrossPoint logo where used today, e.g. power-off screen, (4) future website.
@@ -21,3 +21,4 @@ updated: 2026-10-03T17:33
 - (decision) Wordmark variants needed: (1) horizontal [icon] Crosshatch Player = formal name on website; (2) horizontal [icon] Crosshatch for places using the short name; (3) stacked variant (icon above name) for device lock/power-off screen. Font and casing still undecided; user typed 'Crosshatch Player' capitalised.
 - (event) Rendered .working/wordmark-variants-1.html: L1 horizontal 'Crosshatch Player', L2 horizontal 'Crosshatch', L3 stacked 'Crosshatch', L3b stacked 'Crosshatch Player', each in Noto Sans Bold and Noto Serif Bold (shipped fonts), 1-bit + website colour + 480x800 lock-screen mocks (x4pro/sticky are 800x480 panels, sleep screen portrait). Serif hairlines thin out at 22-24px 1-bit. No font or lockup pick yet.
 - (decision) Stacked formal lockup: 'Player' goes on its own line under 'Crosshatch' (icon / Crosshatch / Player), replacing the one-line stacked 'Crosshatch Player' (L3b). Relative size/weight of 'Player' vs 'Crosshatch' open.
+- (event) Replaced L3b with L3c (icon / Crosshatch / Player) in .working/wordmark-variants-1.html, Noto Sans Bold and Serif Bold, two 'Player' sizings: (a) same size as Crosshatch, (b) 60%. Verified slices and mocks by eye. 14px 1-bit 'Player' in serif is marginal; sans holds. No pick yet.
